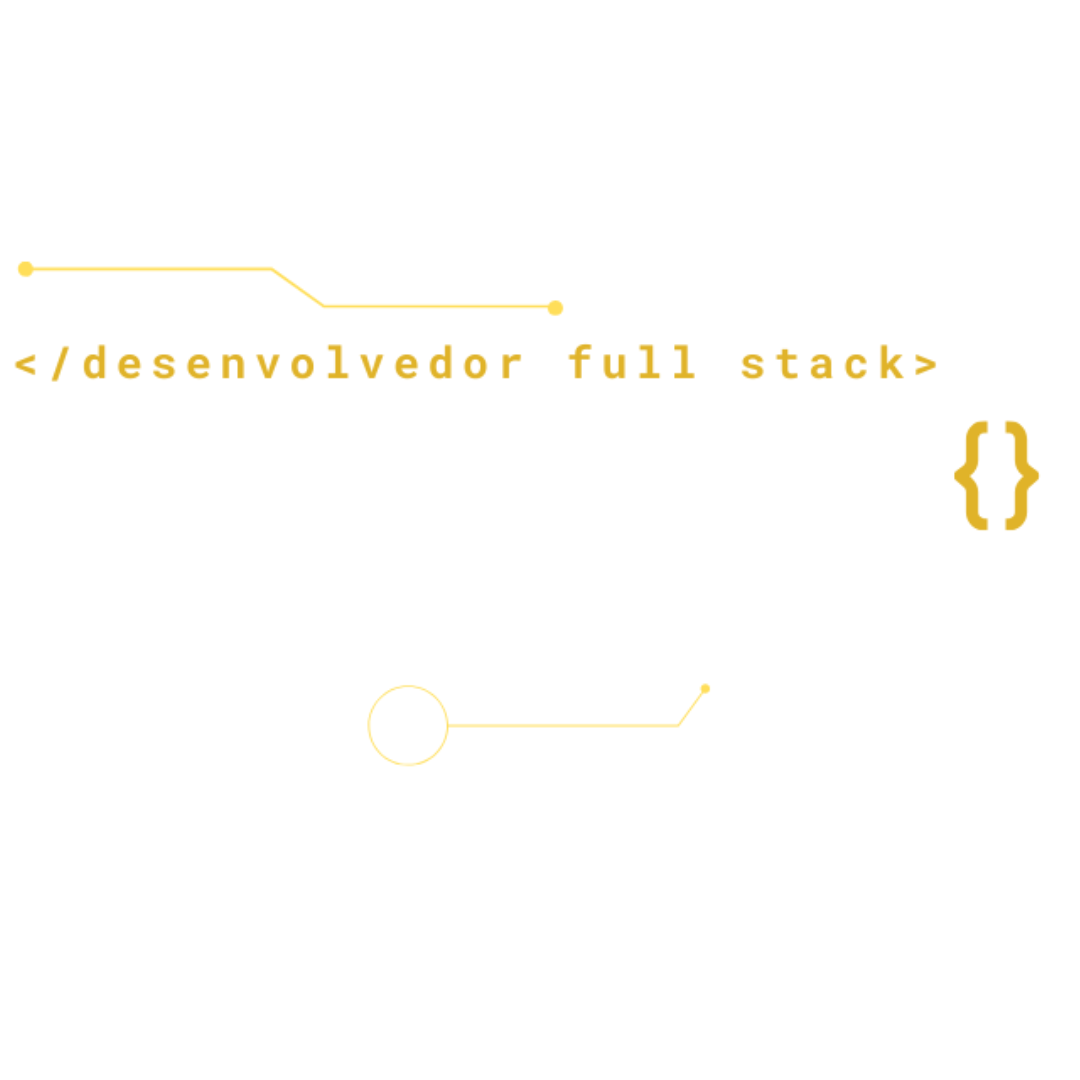
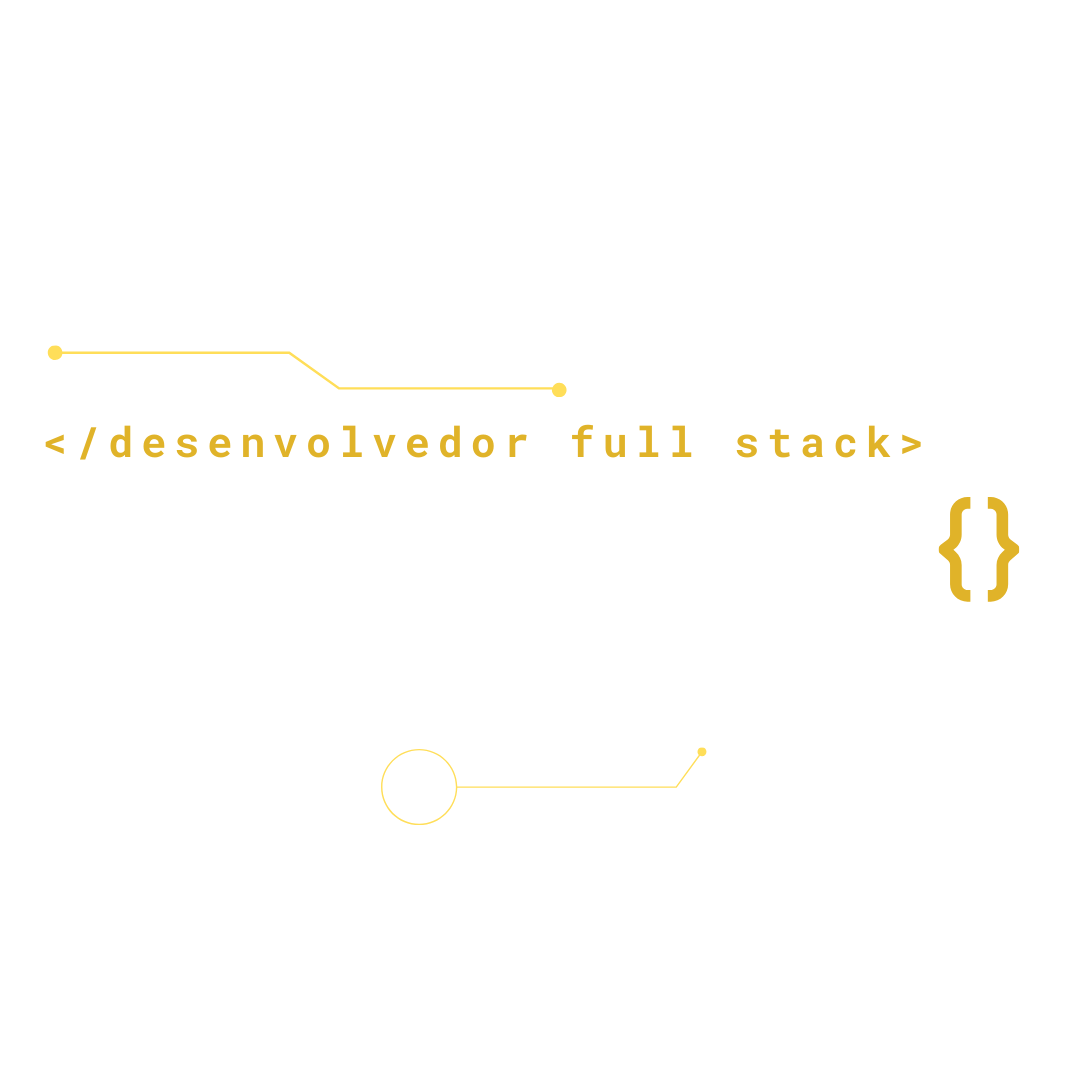
update

diff --git a/src/components/HeroBanner.tsx b/src/components/HeroBanner.tsx
@@ -5,7 +5,7 @@ import bannerBackground from '@/assets/final-banner-bg.png';
 
 const HeroBanner = () => {
     return (
-        <section className="relative min-h-[90vh] md:min-h-[85vh] flex justify-center overflow-hidden bg-slate-950">
+        <section className="relative min-h-[70vh] md:min-h-screen flex justify-center overflow-hidden bg-slate-950">
             {/* Layer 1: Static Background */}
             <div className="absolute inset-0 z-0">
                 <img
@@ -17,38 +17,37 @@ const HeroBanner = () => {
                 <div className="absolute inset-0 bg-slate-950/30" />
             </div>
 
-            <div className="container mx-auto px-4 md:px-12 relative z-10 h-full flex flex-col md:flex-row items-center md:items-end justify-center md:justify-between pt-20 md:pt-0 gap-8 md:gap-0">
-
-                {/* Layer 2: Text Image (Animated) */}
+            {/* Text Image - Positioned with container */}
+            <div className="container mx-auto px-4 md:px-12 relative z-10 h-full flex flex-col justify-end items-center md:items-start pt-20 md:pt-0 pb-4">
                 <motion.div
                     initial={{ opacity: 0, x: -50 }}
                     animate={{ opacity: 1, x: 0 }}
                     transition={{ duration: 0.8, ease: "easeOut" }}
-                    className="w-full md:w-1/2 flex justify-center md:justify-start mb-12 md:mb-32"
+                    className="w-full md:w-1/2 flex justify-center md:justify-start mb-0 md:mb-20"
                 >
                     <img
                         src={bannerText}
                         alt="Isaque Santos - Desenvolvedor Full Stack"
-                        className="w-[90%] md:w-full max-w-[500px] md:max-w-[950px] h-auto object-contain drop-shadow-2xl"
+                        className="w-[80%] md:w-full max-w-[500px] md:max-w-[700px] h-auto object-contain drop-shadow-2xl"
                     />
                 </motion.div>
-
-                {/* Layer 3: Profile Image (Animated) */}
-                <motion.div
-                    initial={{ opacity: 0, x: 50 }}
-                    animate={{ opacity: 1, x: 0 }}
-                    transition={{ duration: 0.8, delay: 0.3, ease: "easeOut" }}
-                    className="w-full md:w-1/2 flex justify-center md:justify-end"
-                >
-                    <div className="relative w-[90%] md:w-full max-w-[500px] md:max-w-[800px]">
-                        <img
-                            src={profileImage}
-                            alt="Isaque Santos"
-                            className="w-full h-auto object-contain relative z-10 drop-shadow-2xl"
-                        />
-                    </div>
-                </motion.div>
             </div>
+
+            {/* Profile Image - Absolutely positioned at bottom */}
+            <motion.div
+                initial={{ opacity: 0, x: 50 }}
+                animate={{ opacity: 1, x: 0 }}
+                transition={{ duration: 0.8, delay: 0.3, ease: "easeOut" }}
+                className="absolute bottom-0 right-0 z-20 w-full md:w-1/2 flex justify-center md:justify-end px-4 md:px-12"
+            >
+                <div className="relative w-[90%] md:w-full max-w-[500px] md:max-w-[900px]">
+                    <img
+                        src={profileImage}
+                        alt="Isaque Santos"
+                        className="w-full h-auto object-contain object-bottom drop-shadow-2xl"
+                    />
+                </div>
+            </motion.div>
         </section>
     );
 };
